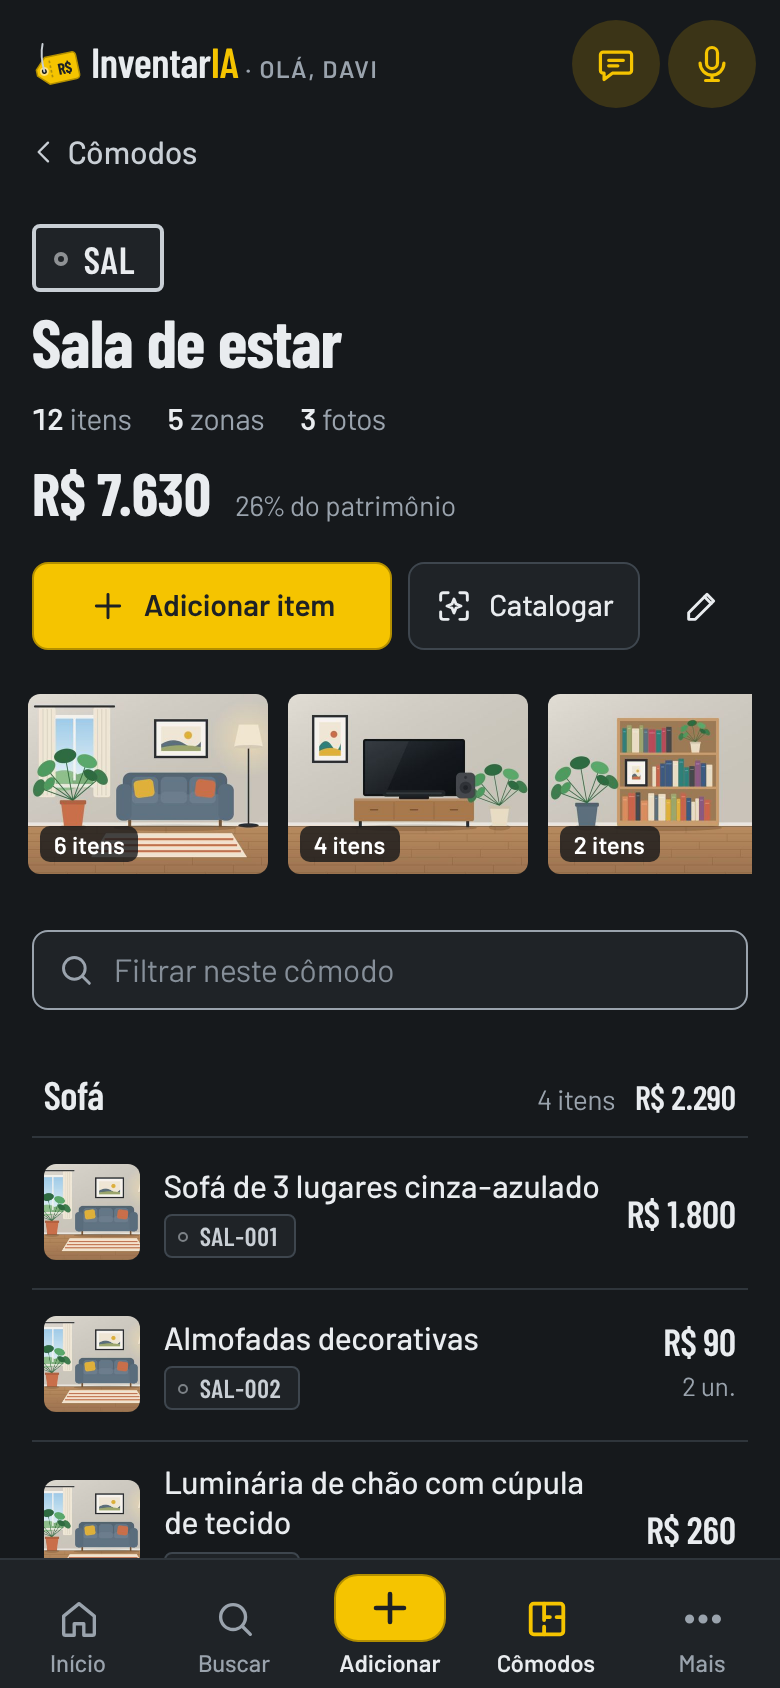
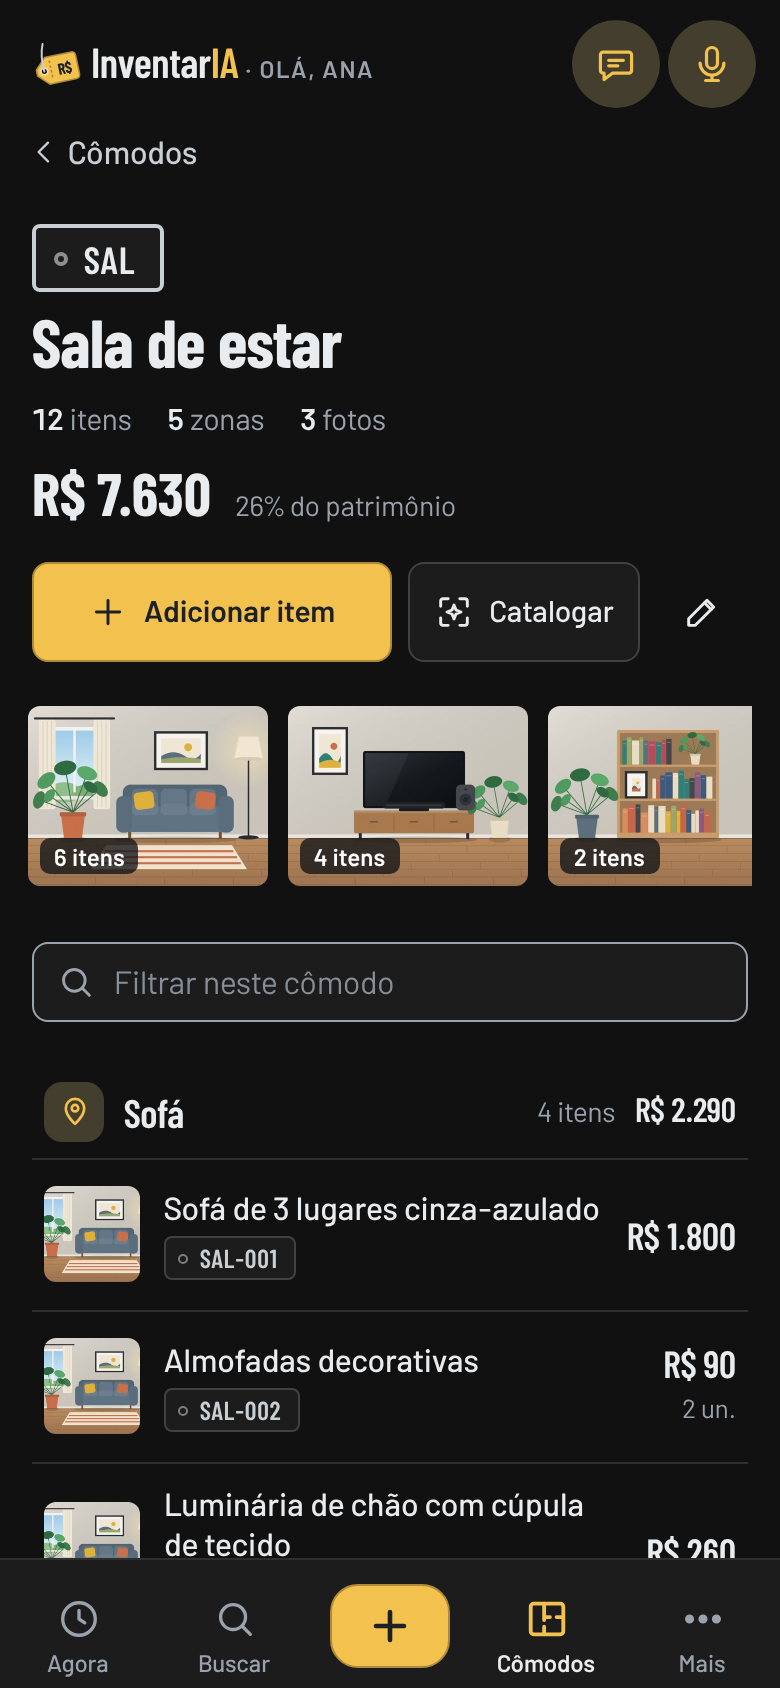
InventarIA: o README e as capturas em dia (os consumíveis, a Memória da IA e as Rondas)
As capturas com a usuária Ana (a casa de exemplo de sempre).

Claude-Session: https://claude.ai/code/session_017hEteHByHThDBu4uLqG9Xn

diff --git a/tools/shots_readme.py b/tools/shots_readme.py
@@ -4,7 +4,7 @@
 Uso: shots_readme.py <url-do-servidor-de-exemplo> <ia.json> <pasta-de-saida>
 O servidor de exemplo é o server.py com INV_SEED=<saída do demo.py>/seed, INV_DEV=1 e INV_AI_MOCK=1, numa porta livre
 (INV_PORT). Liga as zonas no servidor. Celular 390x844 em 2x, tema escuro, cor padrão (amarelo, sem a Cor do dia),
-usuário "Davi".
+usuário "Ana".
 """
 import asyncio
 import json
@@ -29,7 +29,7 @@ async def main():
         b = await p.chromium.launch()
         ctx = await b.new_context(viewport={"width": 390, "height": 844}, device_scale_factor=2, color_scheme="dark",
                                   is_mobile=True, has_touch=True, reduced_motion="reduce",
-                                  extra_http_headers={"X-Remote-User-Display-Name": "Davi"})
+                                  extra_http_headers={"X-Remote-User-Display-Name": "Ana"})
         await ctx.add_init_script("try{localStorage.setItem('inv:accentDaily', 'false')}catch(e){}")
         pg = await ctx.new_page()
         pg.on("pageerror", lambda e: errors.append(str(e)))

diff --git a/README.md b/README.md
@@ -36,16 +36,16 @@ A primeira instalação leva alguns minutos, porque o app é montado no próprio
 - **Fotos da internet**: num item sem foto, a IA procura o produto no fabricante e nas lojas e o app mostra as fotos para você escolher. A foto fica marcada como ilustrativa, com o site de onde veio. Na mesma busca, a IA traz nome, detalhes, categoria e valor para preencher o item.
 - **Recursos** de cada eletrônico, utilidade ou veículo: a IA diz o que o equipamento tem (funções, modos, conexões), com a fonte; os de todos os eletrônicos de uma vez em Novidades › Eletrônicos.
 - **Novidades** de cada item ou de todos os eletrônicos de uma vez (a IA escolhe quais): atualizações, lançamentos, modelo novo, recalls e fim de suporte, com a fonte de cada um. Pode conferir sozinho a cada 7, 15 ou 30 dias, no horário que você escolher, e avisar no celular das pessoas da casa que você escolher quando achar algo novo. Se você ligar, também as novidades dos apps que vocês usam no celular (pelo sensor Último app usado do app Home Assistant).
-- **Conversar** com a IA a qualquer momento, ao lado do microfone, sobre o que está na tela ou qualquer outro assunto.
+- **Conversar** com a IA a qualquer momento, ao lado do microfone, sobre o que está na tela ou qualquer outro assunto. A **Memória da IA** é uma só, da casa, compartilhada por todos os apps da família.
 - **Buscar** por nome, marca ou detalhe, sem se importar com acentos, com filtros por cômodo e categoria, e **Selecionar** para alterar o cômodo, a categoria e a zona de vários itens de uma vez.
 - **Bens** fora de casa (casa, terreno, carro), separados em Imóveis, Veículos e Outros: contam no patrimônio e vêm à parte no relatório.
-- **Consumíveis** (pasta térmica, creme de massagem, pilhas): o que se gasta, com as categorias deles e a duração estimada, fora do patrimônio. Os itens da casa, os bens e os consumíveis têm cada um a sua chave.
+- **Consumíveis** (pasta térmica, creme de massagem, pilhas): o que se gasta, com as categorias deles, a duração estimada e o cômodo onde é usado, fora do patrimônio, agrupados por categoria, cômodo ou **vencimento** (esta semana, este mês, mês que vem). **Avaliar com IA** traz um parecer de cada um, e a ficha mostra as compras no [EconomIA](https://github.com/diegozapella63/economia-ha). Os itens da casa, os bens e os consumíveis têm cada um a sua chave.
 - **Relatório do inventário** por cômodo, com fotos e gráficos, para baixar em PDF.
 - **Gráficos**: os cômodos, as categorias e os itens que mais valem, as faixas de valor e o patrimônio mês a mês.
 - **Exportar** em CSV, JSON ou ZIP com fotos, **backup** na pasta `share/inventario`, versões automáticas a cada 10 minutos de uso e **Começar do zero** (com uma cópia antes).
 - **Importar backup** pelo celular, inclusive dividido em partes.
 - **Nos outros apps da casa**: o [ResolvIA](https://github.com/diegozapella63/resolvia-ha) liga tarefas a cômodos e itens daqui (e o [CronologIA](https://github.com/diegozapella63/cronologia-ha) mostra nas tarefas), e o [GerencIA](https://github.com/diegozapella63/gerencia-ha) soma os itens no patrimônio, como bens. Eles só leem: nada muda aqui.
-- **Pelo WhatsApp, pelo Claude e pelo Gemini**, com o [CorrerIA](https://github.com/diegozapella63/correria-ha) (se você ligar): ver o resumo, buscar, cadastrar, editar, mover e apagar itens, com as mesmas regras da tela.
+- **Pelo WhatsApp, pelo Claude e pelo Gemini**, com o [CorrerIA](https://github.com/diegozapella63/correria-ha) (se você ligar): ver o resumo, buscar, cadastrar (também por foto), editar, mover e apagar itens, com as mesmas regras da tela; e, nas **Rondas** de lá, os itens e os consumíveis de cada cômodo.
 - **Celular e computador**: no celular, arrastar para o lado troca de aba; no computador, barra lateral com os cômodos e atalhos de teclado.
 - **Tema claro e escuro** (em cada aparelho) e **cor do app** (para a casa toda), com as 12 cores da família: vermelho, coral, laranja, ouro, verde, menta, turquesa, azul, índigo, lilás, rosa ou grafite, ou a **Cor do dia**, que muda todo dia e é a mesma em todos os apps.
 - **Sobre** (no fim do menu Mais): quem faz o app e os outros apps da família, cada um com o link para o GitHub.
